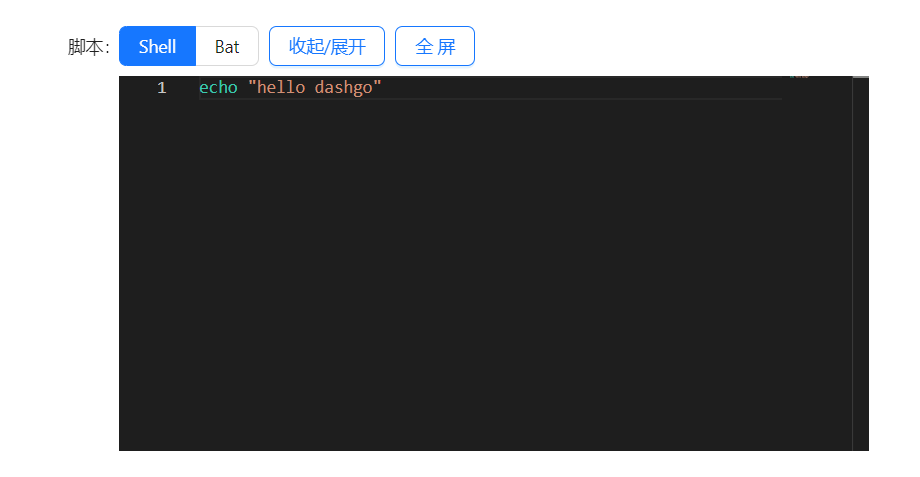
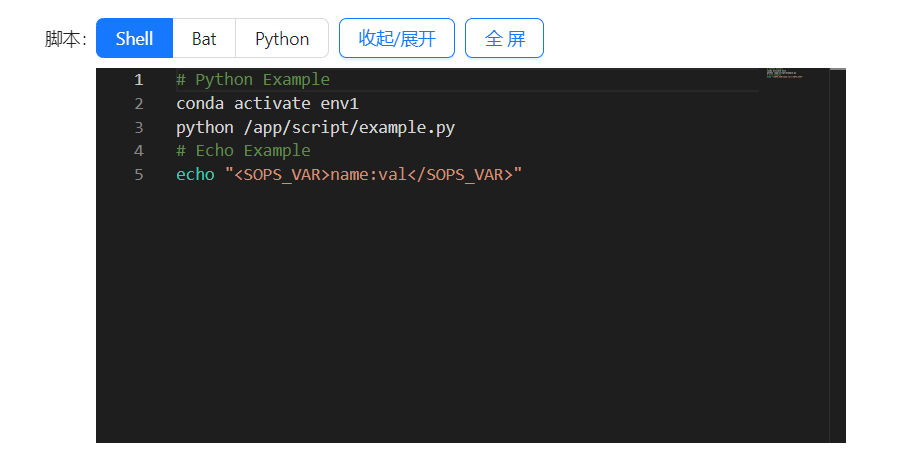
update readme

Changed region(s): [[0.0307, 0.0297, 0.9528, 0.9492], [0.1844, 0.3559, 0.584, 0.3856]]

diff --git a/README.md b/README.md
@@ -5,7 +5,7 @@
 <p align="center">
     <a href="https://gitee.com/luojiaaoo/DashGo"><img src="https://gitee.com/luojiaaoo/DashGo/badge/star.svg?theme=dark"></a>
     <a href="https://github.com/luojiaaoo/Plotly-DashGo"><img src="https://img.shields.io/github/stars/luojiaaoo/Plotly-DashGo?style=social"></a>
-    <a href="https://gitee.com/luojiaaoo/DashGo"><img src="https://img.shields.io/badge/DashGo-v1.1.2-brightgreen.svg"></a>
+    <a href="https://gitee.com/luojiaaoo/DashGo"><img src="https://img.shields.io/badge/DashGo-v1.1.3-brightgreen.svg"></a>
     <img src="https://img.shields.io/badge/license-MIT-blue.svg">
     <img src="https://img.shields.io/badge/python-≥3.9-blue">
     <img src="https://img.shields.io/badge/MySQL-≥5.7-blue">
@@ -27,15 +27,16 @@ DashGo谐音<u>**大西瓜**</u>，这是一个开箱即用的低代码WEB框架
 4. i18n国际化组件
 5. 密码和OTP登录
 6. 支持OAuth2 provider
-7. 支持任务模块，支持周期任务和定时任务， <a href="docs/task.md">使用文档</a>
-8. 任务模块支持数据抽取与信息推送，可以实现数据大屏和实时监控
+7. 支持任务模块，支持周期任务和定时任务， <a href="docs/task.md">请查看使用文档</a>
+8. 任务模块支持数据抽取与个性化信息推送，支持`Server酱`、`企业微信群机器人`、`SMTP邮件`，可以实现数据大屏、实时监控和通知推送
 
 ### 特点:
 
 1. 极易使用
 2. 只需要一个Python文件，就可以将应用嵌入系统，无需额外操作
 3. 符合主流数据平台风格
-4. 通过OAuth2接口+Iframe实现子系统接入（beta，自主开发的子系统见`https://github.com/luojiaaoo/dashgo-knowledge`）
+4. 丰富的消息通知渠道：`Server酱`、`企业微信群机器人`、`SMTP邮件`
+5. 通过OAuth2接口+Iframe实现子系统接入（beta，自主开发的子系统见`https://github.com/luojiaaoo/dashgo-knowledge`）
 
 ------
 

diff --git a/docs/task.md b/docs/task.md
@@ -38,6 +38,8 @@
 
 > 支持bat脚本执行（内部调用指令为：cmd /c，需要为windows系统才可执行）
 
+- **Python脚本**
+
   ![](../screenshots/task_script_shell.png)
 
 ### 3、 支持本地脚本/ssh远程连接
@@ -49,7 +51,7 @@
 
   ![](../screenshots/task_run_type.png)
 
-### 4、数据采集与消息推送
+### 4、数据采集 与 消息推送
 
 实现数据的收集，用于数据大屏、数据监控等目的
 
@@ -67,9 +69,18 @@
 >
 > 2、符合格式要求的通知类型，会把name当作标题，val为内容，通过配置的“系统设置/通知接口”发送出去。[Server酱购买渠道](https://sct.ftqq.com/r/16293)
 >
+> #### 每个任务可以独立绑定通知渠道，可以定义个性化的消息通知服务
+>
+> ![](../screenshots/setting_notify_bind.png)
+
+
+
+### 5、支持Server酱、企业微信群机器人、邮箱多种通知渠道
+
+>
 > ![](../screenshots/setting_notify.png)
 
-### 5、 日志查看
+### 6、 实时日志查看
 
 1. 选择对应的任务名，点击查询
 
